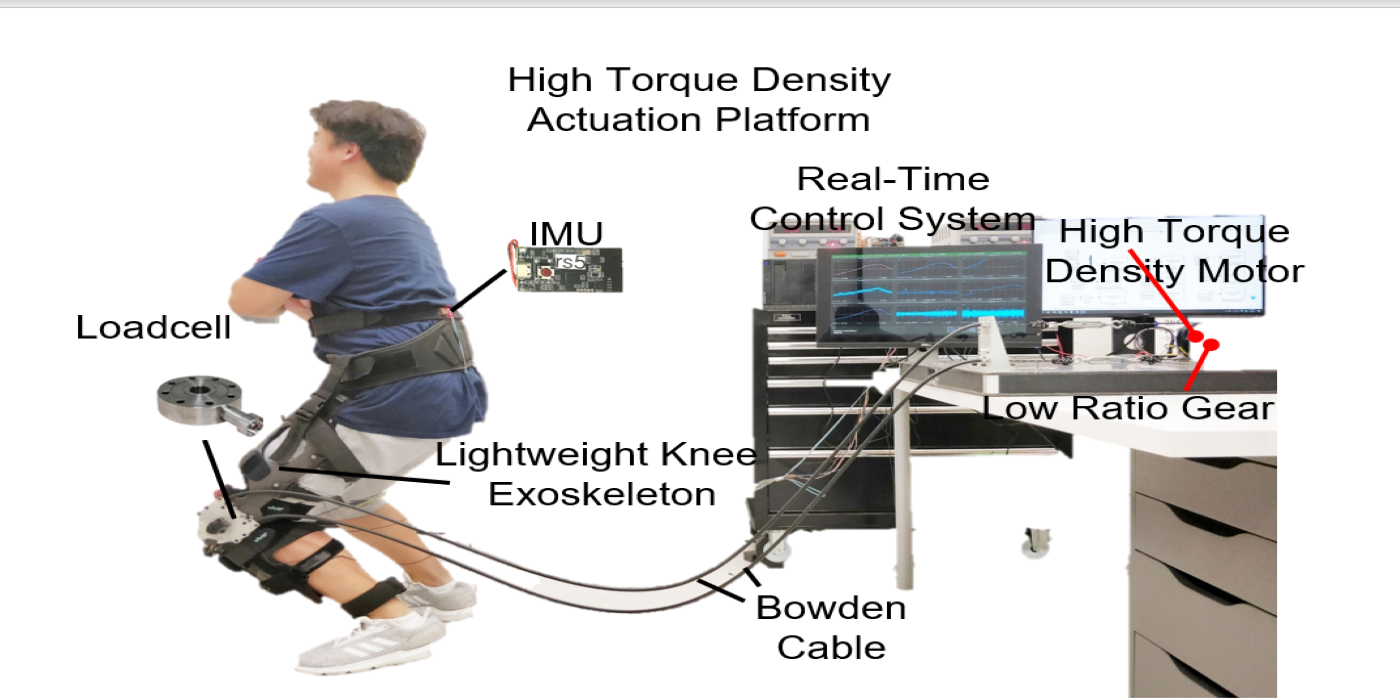
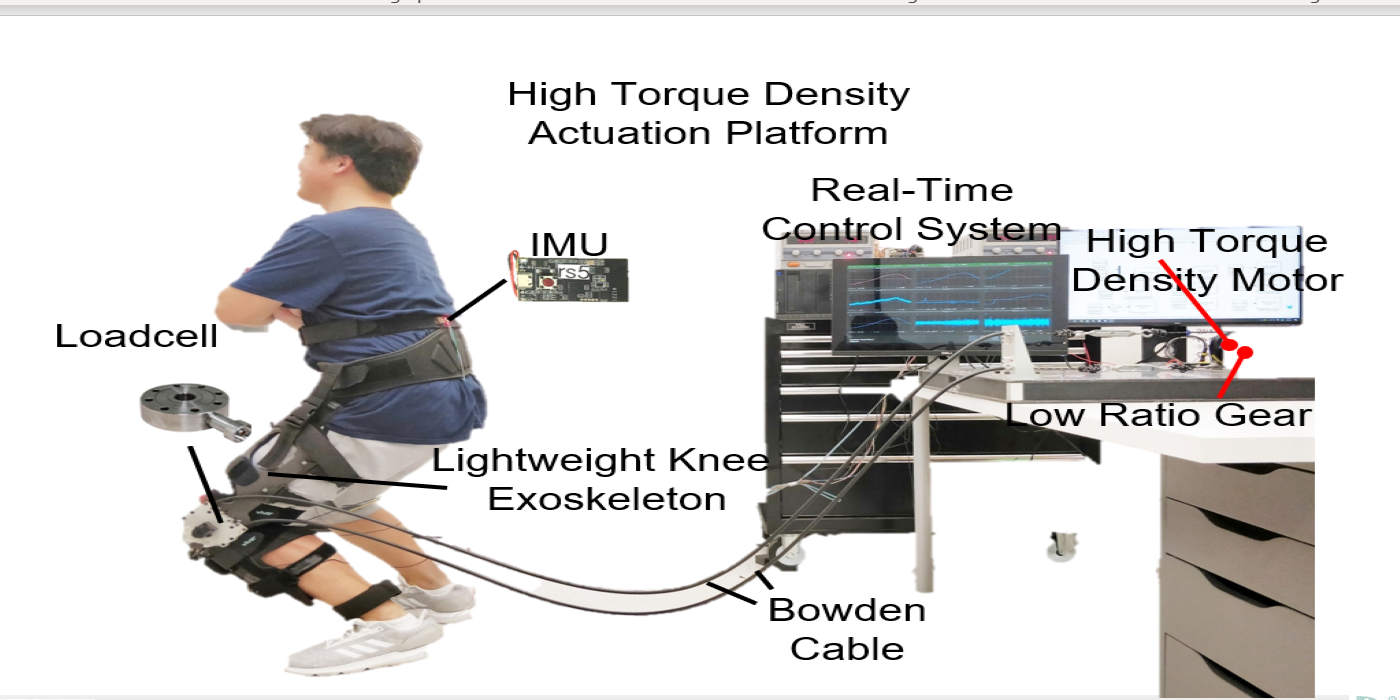
replace pic

diff --git a/index.html b/index.html
@@ -54,9 +54,12 @@
       <div class="ml-auto p-2">
       <nav class="nav-menu d-none d-lg-block">
         <ul>
-          <li class="active">
+          <li class="active drop-down">
             <a href="index.html">Home
               <span class="sr-only">(current)</span>
+              <ul>
+                <li><a href="about.html"></a></li>
+              </ul>
             </a>
 
           </li>
@@ -103,7 +106,7 @@
       <div class="carousel-inner" role="listbox">
 
         <!-- Slide 1 -->
-        <div class="carousel-item active" style="background-image: url(assets/img/slide/SaphireSTM2.jpg);">
+        <div class="carousel-item active" style="background-image: url(assets/img/slide/Picture1.png);">
 <!--          <div class="carousel-container">-->
 <!--            <div class="carousel-content animated fadeInUp">-->
 <!--              <h2>Welcome to <span>Company</span></h2>-->
@@ -114,15 +117,15 @@
         </div>
 
 
-        <div class="carousel-item" style="background-image: url(assets/img/slide/Picture1.png);">
-          <div class="carousel-container">
-<!--            <div class="carousel-content animated fadeInUp">-->
-<!--              <h2>Lorem Ipsum Dolor</h2>-->
-<!--              <p>Ut velit est quam dolor ad a aliquid qui aliquid. Sequi ea ut et est quaerat sequi nihil ut aliquam. Occaecati alias dolorem mollitia ut. Similique ea voluptatem. Esse doloremque accusamus repellendus deleniti vel. Minus et tempore modi architecto.</p>-->
-<!--              <div class="text-center"><a href="" class="btn-get-started">Read More</a></div>-->
-<!--            </div>-->
-          </div>
-        </div>
+<!--        <div class="carousel-item" style="background-image: url(assets/img/slide/Picture1.png);">-->
+<!--          <div class="carousel-container">-->
+<!--&lt;!&ndash;            <div class="carousel-content animated fadeInUp">&ndash;&gt;-->
+<!--&lt;!&ndash;              <h2>Lorem Ipsum Dolor</h2>&ndash;&gt;-->
+<!--&lt;!&ndash;              <p>Ut velit est quam dolor ad a aliquid qui aliquid. Sequi ea ut et est quaerat sequi nihil ut aliquam. Occaecati alias dolorem mollitia ut. Similique ea voluptatem. Esse doloremque accusamus repellendus deleniti vel. Minus et tempore modi architecto.</p>&ndash;&gt;-->
+<!--&lt;!&ndash;              <div class="text-center"><a href="" class="btn-get-started">Read More</a></div>&ndash;&gt;-->
+<!--&lt;!&ndash;            </div>&ndash;&gt;-->
+<!--          </div>-->
+<!--        </div>-->
 
         <div class="carousel-item" style="background-image: url(assets/img/slide/Picture2.png);">
 <!--          <div class="carousel-container">-->
@@ -187,7 +190,7 @@
 
       <div class="container" data-aos="fade-up">
         <div class="section-title">
-          <h3>Exo-Actuator-Sensors</h3>
+
           <h4><a href="products.html">Please see our <span>product page</span> for all available products</a></h4>
         </div>
       </div>
